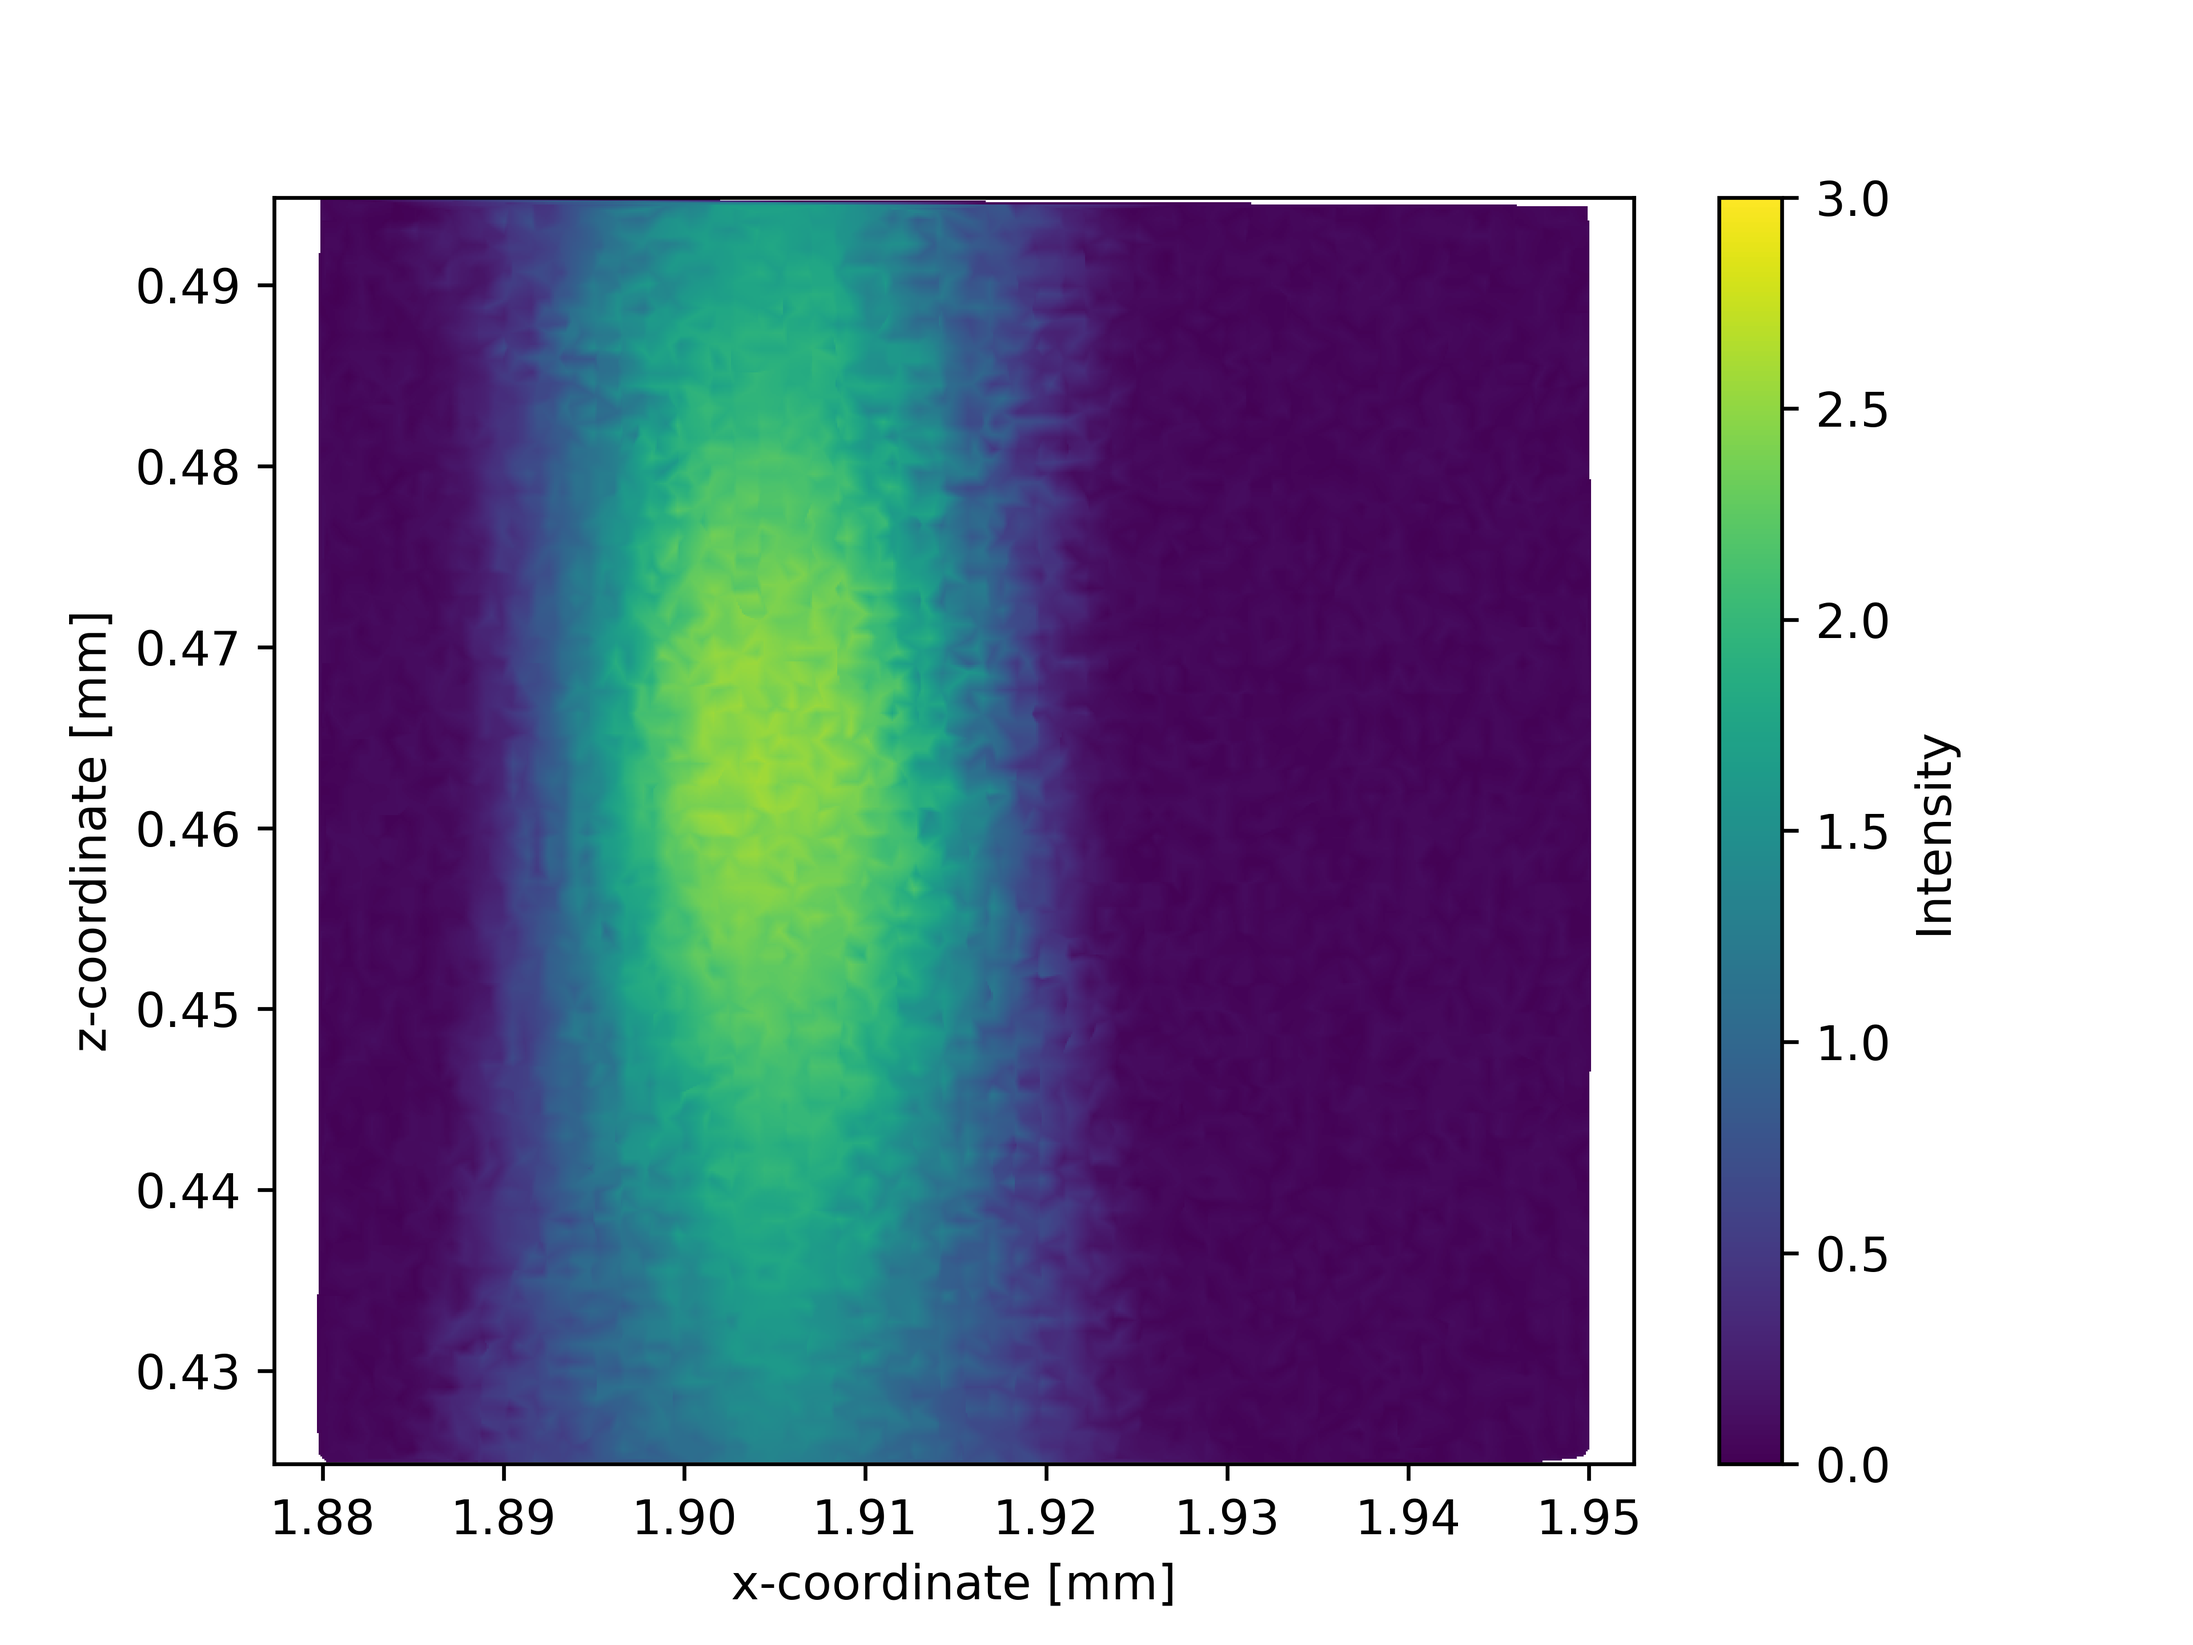
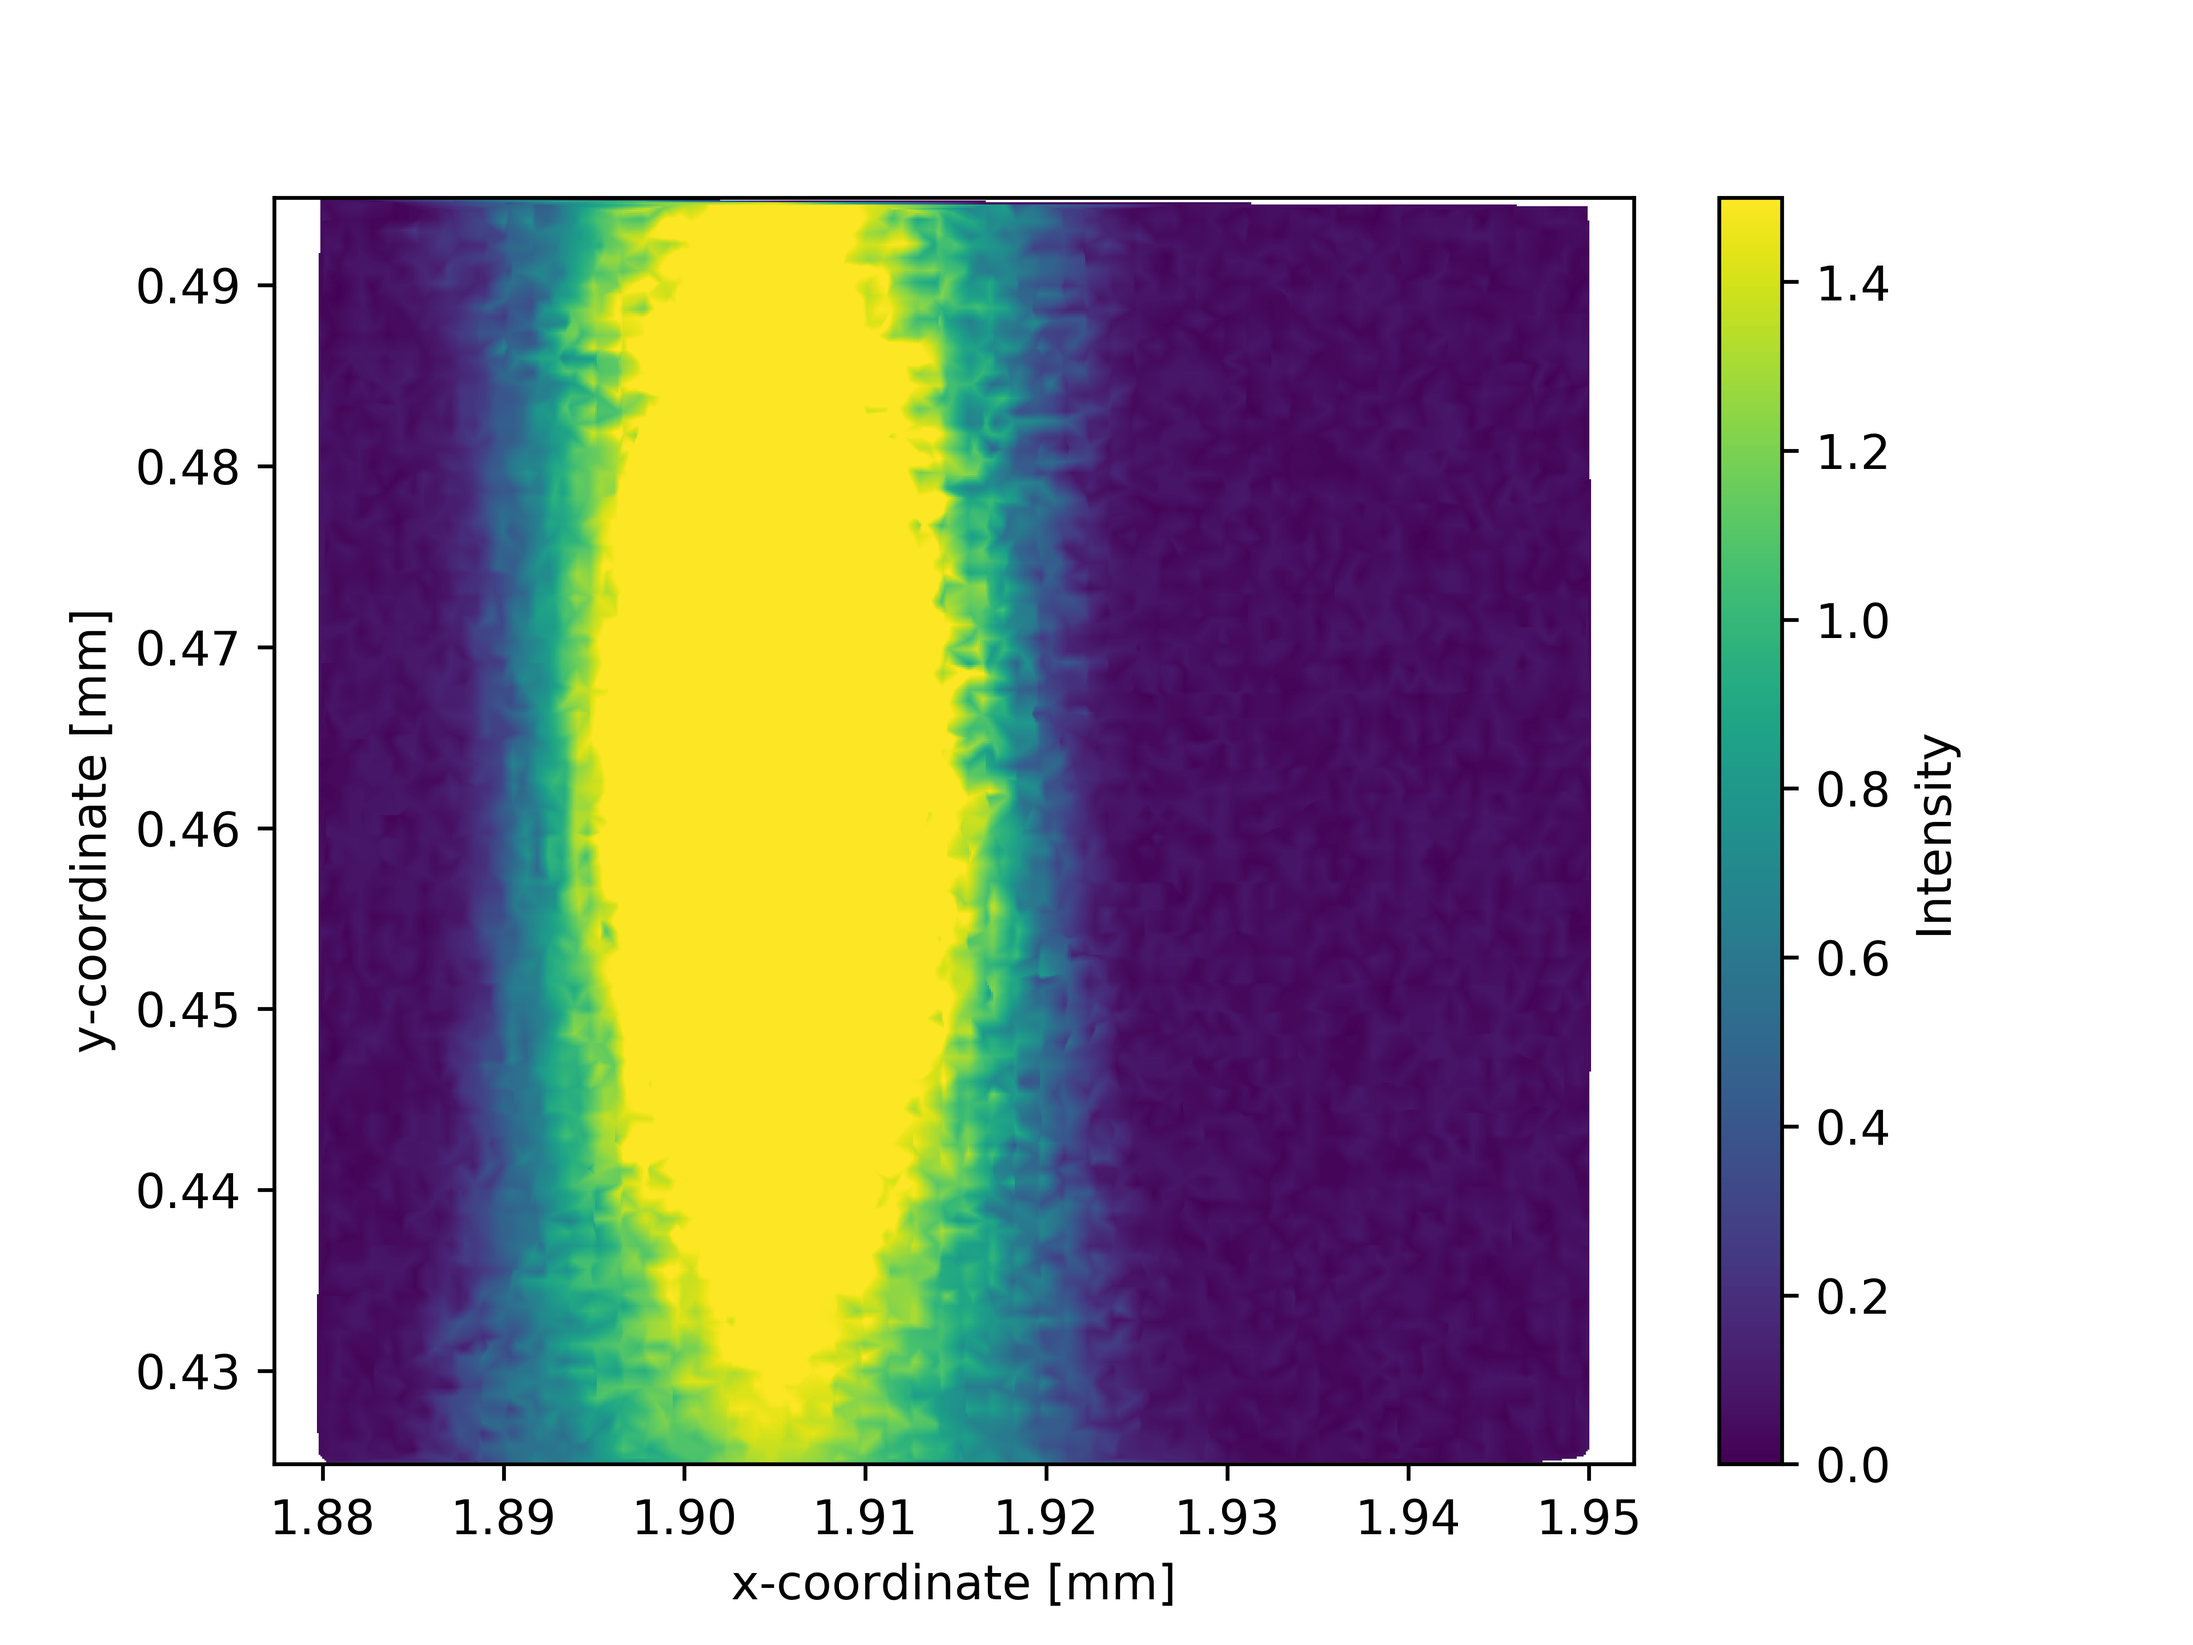
update code, update plots

diff --git a/Dataanalysis_curvefitting.py b/Dataanalysis_curvefitting.py
@@ -32,7 +32,7 @@ from pylab import meshgrid,cm,imshow,contour,clabel,colorbar,axis,title,show
 #masterpath  =  r"C:\Users\Hannah Niese\Documents\GitHub\MCLMicroDrive\Measurements\22_07_25_20x_intsquared"
 masterpath  =  r"C:\Users\Hannah Niese\Documents\GitHub\MCLMicroDrive\Measurements\22_09_27_20x_singlepixels"
 #file        =   '22-07-25_16-28-16_data'
-file        =   '22-09-27_10-20-10_data'
+file        =   '22-09-27_10-20-10_data_onepixel'
 ftype       =   '.txt'
 datafile    =   masterpath + '\\' + file + ftype
 outpath     =   masterpath + '\\analysis'
@@ -44,7 +44,7 @@ data    = np.loadtxt(datafile, delimiter=',',  skiprows=1)
 
 # import sideprofile
 #side_file   =   '22-07-25_14-47-33_data'
-side_file        =   '22-09-27_10-20-10_data'
+side_file        =   '22-09-27_10-20-10_data_onepixel'
 ftype       =   '.txt'
 side_datafile    =   masterpath + '\\' + side_file + ftype
 
@@ -148,10 +148,10 @@ I_side_squared  = np.square(I_side_pos)
 
 #%%
 
-yi, zi, Ii, gridres = pointsongrid(y_side, z_side, I_side_pos)
+yi, zi, Ii_4, gridres = pointsongrid(y_side, z_side, I_side_pos)
 #yi, zi, Ii, gridres = pointsongrid(y_side, z_side, I_side_norm)
 
-plt.imshow(Ii, cmap='viridis', extent=(yi.min(), yi.max(), zi.min(), zi.max()), origin='lower', vmin=0, vmax=1.5)
+plt.imshow(Ii_4, cmap='viridis', extent=(yi.min(), yi.max(), zi.min(), zi.max()), origin='lower', vmin=0, vmax=1.5)
 plt.axis('equal')
 plt.xlabel('x-coordinate [mm]')
 plt.ylabel('y-coordinate [mm]')
@@ -166,7 +166,7 @@ plt.savefig('%s_interpolated_pos.png' % file, dpi=600)
 ymin = 1
 ymax = 705
 
-z = 540
+z = 550
 
 
 # fit gaussian through line plots
@@ -363,7 +363,7 @@ ax.set_title('Gauss')
 
 #%% plotting all fits together
 
-fig, (ax2, ax3, ax1) = plt.subplots(figsize=(9,3), gridspec_kw={'width_ratios': [1, 1, 2]}, ncols=3)
+fig, (ax2, ax3, ax1) = plt.subplots(figsize=(8,3), gridspec_kw={'width_ratios': [1, 1, 2]}, ncols=3)
 
 overview = ax1.imshow(Ii, cmap='viridis', extent=(yi.min(), yi.max(), zi.min(), zi.max()), origin='lower', vmin=0, vmax=1.5)
 ax1.axis('equal')
@@ -426,17 +426,18 @@ x = np.arange(xmin,xmax,res)
 z = np.arange(zmin,zmax,res)
 x,z = meshgrid(x,z)
 
-H = pixel(x, 1.91, z)
-I = pixel(x, 1.915, z)
-J = pixel(x, 1.92, z)
+H = pixel(x, 1.905, z)
+I = pixel(x, 1.905-0.007, z)
+J = pixel(x, 1.905-(2*0.007), z)
 
 #L = pixel(x, -1.5, z)
 #M = pixel(x, -1.506, z)
 
 #N = pixel(x, -1.525, z)
 
-added = H #+ I + J + K + L + M + N 
-squared = np.square(added)
+two = H+I #+ I + J + K + L + M + N 
+three = H+I+J
+twogap = H + J
 
 raster1 = np.square(H + J ) #+ L + N
 raster2 = np.square(I)
@@ -459,7 +460,9 @@ two = ax3.imshow(H+I+J, cmap='viridis', extent=[xmin, xmax, zmin, zmax,], origin
 ax3.set_title('3 pixel')
 ax3.axes.yaxis.set_ticklabels([])
 
-#fig.colorbar(add, ax=ax3)
+
+os.chdir(outpath)
+plt.savefig('%s_1_2_3_pixels_simulated.png' % side_file, dpi=600)
 
 #%% single image
 fig, (ax1) = plt.subplots(ncols=1)
@@ -470,9 +473,11 @@ ax1.set_title('1, 2, 4 pixels')
 
 #%% data and simulation
 
+vmax=2.5
+
 fig, (ax1, ax2) = plt.subplots(figsize=(6,3), ncols=2)
 
-overview = ax1.imshow(Ii, cmap='viridis', extent=(yi.min(), yi.max(), zi.min(), zi.max()), origin='lower', vmin=vmin, vmax=1.5)
+overview = ax1.imshow(Ii_4, cmap='viridis', extent=(yi.min(), yi.max(), zi.min(), zi.max()), origin='lower', vmin=vmin, vmax=vmax)
 ax1.axis('equal')
 ax1.set_xlabel('x-coordinate [mm]')
 ax1.set_ylabel('z-coordinate [mm]')
@@ -480,14 +485,63 @@ ax1.set_title('Measured data')
 ax1.set_aspect('equal', 'box')
 #colorbar(overview, ax=ax1)
 
-one = ax2.imshow(added, cmap='viridis', extent=[xmin, xmax, zmin, zmax,], origin = 'lower', vmin=vmin, vmax=1.5, interpolation = 'none')
+one = ax2.imshow(twogap, cmap='viridis', extent=[xmin, xmax, zmin, zmax,], origin = 'lower', vmin=vmin, vmax=vmax, interpolation = 'none')
 ax2.set_title('Simulated data')
 ax2.set_xlabel('x-coordinate [mm]')
 ax2.axes.yaxis.set_ticklabels([])
 
 os.chdir(outpath)
-plt.savefig('%s_measured_simulated.png' % side_file, dpi=600)
+plt.savefig('%s_measured_simulated_twogap.png' % side_file, dpi=600)
 
+
+#%% data and simulation 1, 2, 3 pixels - data taken 2022-09-27
+
+vmax=2.5
+
+fig, ((ax1, ax2, ax3, cax1), (ax4, ax5, ax6, cax2)) = plt.subplots(figsize=(7,4), gridspec_kw={'width_ratios': [4, 4, 4, 0.25]}, nrows=2, ncols=4)
+
+sim_1 = ax1.imshow(H, cmap='viridis', extent=[xmin, xmax, zmin, zmax], origin = 'lower', vmin=vmin, vmax=vmax, interpolation = 'none')
+ax1.set_title('1 Pixel')
+ax1.set_ylabel('z-coordinate [mm]')
+ax1.axes.xaxis.set_ticklabels([])
+#ax1.contour(add, origin='lower', colors=['white'])
+
+sim_2 = ax2.imshow(H+I, cmap='viridis', extent=[xmin, xmax, zmin, zmax], origin = 'lower', vmin=vmin, vmax=vmax, interpolation = 'none')
+ax2.set_title('2 Pixels')
+ax2.axes.yaxis.set_ticklabels([])
+ax2.axes.xaxis.set_ticklabels([])
+
+sim_3 = ax3.imshow(H+I+J, cmap='viridis', extent=[xmin, xmax, zmin, zmax], origin = 'lower', vmin=vmin, vmax=vmax, interpolation = 'none')
+ax3.set_title('3 Pixels')
+ax3.axes.xaxis.set_ticklabels([])
+ax3.axes.yaxis.set_ticklabels([])
+
+
+data_1 = ax4.imshow(Ii_1, cmap='viridis', extent=(yi.min(), yi.max(), zi.min(), zi.max()), origin='lower', vmin=vmin, vmax=vmax)
+ax4.axis('equal')
+ax4.set_xlabel('x-coordinate [mm]')
+ax4.set_ylabel('z-coordinate [mm]')
+ax4.set_aspect('equal', 'box')
+#colorbar(overview, ax=ax1)
+
+ax5.imshow(Ii_2, cmap='viridis', extent=(yi.min(), yi.max(), zi.min(), zi.max()), origin='lower', vmin=vmin, vmax=vmax)
+ax5.axis('equal')
+ax5.set_xlabel('x-coordinate [mm]')
+ax5.set_aspect('equal', 'box')
+#colorbar(overview, ax=ax1)
+ax5.axes.yaxis.set_ticklabels([])
+
+ax6.imshow(Ii_3, cmap='viridis', extent=(yi.min(), yi.max(), zi.min(), zi.max()), origin='lower', vmin=vmin, vmax=vmax)
+ax6.axis('equal')
+ax6.set_xlabel('x-coordinate [mm]')
+ax6.set_aspect('equal', 'box')
+ax6.axes.yaxis.set_ticklabels([])
+
+fig.colorbar(sim_1, cax=cax1)
+fig.colorbar(data_1, cax=cax2)
+
+os.chdir(outpath)
+plt.savefig('%s_measured_simulated_1-2-3.png' % side_file, dpi=1200)
 
 #%% recreate the three small pixels
 

diff --git a/Dataanalysis_v07.py b/Dataanalysis_v07.py
@@ -28,8 +28,15 @@ from scipy.integrate import quad
 # Two measurements of the same 
 
 #masterpath  =   r"C:\Users\Hannah Niese\Documents\GitHub\MCLMicroDrive\Measurements\22_07_07_20x"
-masterpath  =  r"C:\Users\Hannah Niese\Documents\GitHub\MCLMicroDrive\Measurements\22_07_25_20x_intsquared"
-file        =   '22-07-25_13-58-18_data'
+
+#masterpath  =  r"C:\Users\Hannah Niese\Documents\GitHub\MCLMicroDrive\Measurements\22_07_25_20x_intsquared"
+#file        =   '22-07-25_13-58-18_data'
+#side_file   =   '22-07-25_14-14-31_data'
+
+masterpath  =  r"C:\Users\Hannah Niese\Documents\GitHub\MCLMicroDrive\Measurements\22_09_27_20x_singlepixels"
+file        =   '22-09-27_10-38-02_data_twopixel'
+side_file        =   '22-09-27_10-20-10_data_onepixel'
+
 ftype       =   '.txt'
 datafile    =   masterpath + '\\' + file + ftype
 outpath     =   masterpath + '\\analysis'
@@ -40,7 +47,7 @@ data    = np.loadtxt(datafile, delimiter=',',  skiprows=1)
 
 
 # import sideprofile
-side_file   =   '22-07-25_14-14-31_data'
+
 ftype       =   '.txt'
 side_datafile    =   masterpath + '\\' + side_file + ftype
 
@@ -122,7 +129,7 @@ def pointsongrid(x, y, I):
 yi, zi, Ii, gridres = pointsongrid(y_side, z_side, I_side_pos)
 #yi, zi, Ii, gridres = pointsongrid(y_side, z_side, I_side_norm)
 
-plt.imshow(Ii, cmap='viridis', extent=(yi.min(), yi.max(), zi.min(), zi.max()), origin='lower', vmin=0, vmax=4)
+plt.imshow(Ii, cmap='viridis', extent=(yi.min(), yi.max(), zi.min(), zi.max()), origin='lower', vmin=0, vmax=3)
 plt.axis('equal')
 plt.xlabel('x-coordinate [mm]')
 plt.ylabel('z-coordinate [mm]')
@@ -138,7 +145,7 @@ plt.savefig('%s_interpolated_pos.png' % side_file, dpi=600)
 xii, yii, Iii, gridres = pointsongrid(x, y, I_pos)
 #yi, zi, Ii, gridres = pointsongrid(y_side, z_side, I_side_norm)
 
-plt.imshow(Iii, cmap='viridis', extent=(xii.min(), xii.max(), yii.min(), yii.max()), origin='lower', vmin=0, vmax=1.5)
+plt.imshow(Iii, cmap='viridis', extent=(xii.min(), xii.max(), yii.min(), yii.max()), origin='lower', vmin=0, vmax=3)
 plt.axis('equal')
 plt.xlabel('x-coordinate [mm]')
 plt.ylabel('y-coordinate [mm]')
@@ -403,14 +410,14 @@ plt.savefig('%s_2D_norm.png' % file, dpi=600)
 
 #%% plotting data as heatmap xz plane
 
-plt.scatter(y_side, z_side, c=I_side_norm, cmap='viridis', marker="s", s=6, vmin=0, vmax=1)
+plt.scatter(y_side, z_side, c=I_side_pos, cmap='viridis', marker="s", s=6, vmin=0, vmax=3)
 plt.axis('equal')
 plt.xlabel('y-coordinate [mm]')
 plt.ylabel('z-coordinate [mm]')
 plt.colorbar(label='Intensity')
 
 os.chdir(outpath)
-plt.savefig('%s_2D_norm_side.png' % file, dpi=600)
+plt.savefig('%s_2D_pos_side.png' % file, dpi=600)
 
 
 #%% plot multiple measurements xy plane
